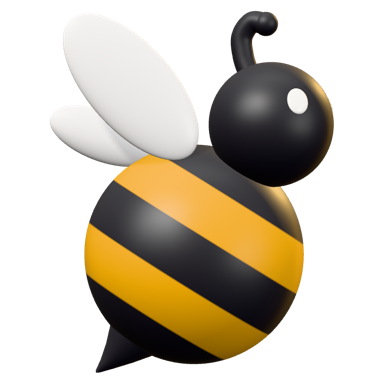
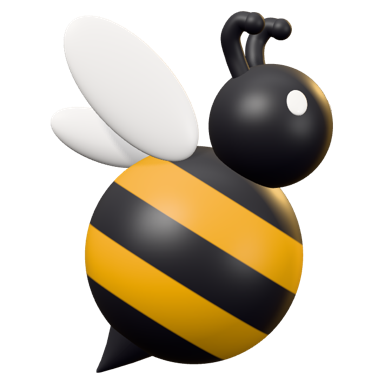
Give the bee two antennae
The 3D bee had a single antenna on the centre of its head, so it looked
wrong whenever it turned to face the viewer. It now has two curled
antennae, splayed slightly and wobbling out of step. The logo, favicon
and app icons are re-rendered from the new model.

diff --git a/src/components/brand/beeScene.ts b/src/components/brand/beeScene.ts
@@ -5,11 +5,11 @@ import { BUZZ_EVENT } from '@/contexts/BuzzContext';
 /**
  * The nostr.buzz bee, rebuilt in three.js from the brand logo's proportions
  * (side view: round striped body, head top-right with one white eye, curled
- * antenna, two wings top-left, chat-bubble stinger bottom-left) and rendered
+ * antennae, two wings top-left, chat-bubble stinger bottom-left) and rendered
  * like a glossy vinyl toy in a soft photo studio.
  *
  * Animations: fluttering wings, hover + sway, blinking eye, head that glances
- * around / follows the pointer, wobbling antenna and an excited "buzz" mode.
+ * around / follows the pointer, wobbling antennae and an excited "buzz" mode.
  */
 
 export interface BeeSceneOptions {
@@ -39,6 +39,8 @@ const LAYOUT = {
   eye: { spread: 42, lift: 0.36, size: new THREE.Vector3(0.1, 0.122, 0.04) },
   /** Resting head turn towards the viewer, so the near eye lands where it is in the logo. */
   headYaw: -0.42,
+  /** Antennae: distance from the head's centre plane at the base and at the curl. */
+  antenna: { base: 0.21, tip: 0.33 },
   stingerDirection: new THREE.Vector2(-0.58, -0.82),
   /** Stripes are slices perpendicular to this axis (tilted 32° towards the head, like the logo). */
   stripeAxis: new THREE.Vector3(0.53, 0.85, 0).normalize(),
@@ -160,7 +162,7 @@ export class BeeScene {
   private readonly hover = new THREE.Group();
   private readonly bee = new THREE.Group();
   private readonly head = new THREE.Group();
-  private readonly antenna = new THREE.Group();
+  private readonly antennae: THREE.Group[] = [];
   /** Near eye (always visible) and far eye (shows when the head turns towards the viewer). */
   private readonly eyes: THREE.Group[] = [];
   private readonly wings: Wing[] = [];
@@ -333,23 +335,29 @@ export class BeeScene {
       this.eyes.push(eye);
     }
 
-    // Antenna: one thick stalk leaning back from the top of the head, with a round tip.
-    const base = new THREE.Vector3(-0.18, 0.46, 0.05);
-    this.antenna.position.copy(base);
-    const curve = new THREE.CatmullRomCurve3(
-      [
-        new THREE.Vector3(-0.18, 0.42, 0.05),
-        new THREE.Vector3(-0.25, 0.62, 0.05),
-        new THREE.Vector3(-0.26, 0.8, 0.05),
-        new THREE.Vector3(-0.16, 0.92, 0.05),
-        new THREE.Vector3(-0.03, 0.9, 0.05),
-      ].map((point) => point.sub(base)),
-    );
-    const stalk = solid(new THREE.Mesh(new THREE.TubeGeometry(curve, 96, 0.096, 28), black));
-    const tip = solid(new THREE.Mesh(new THREE.SphereGeometry(0.108, 32, 24), black));
-    tip.position.copy(curve.getPoint(1));
-    this.antenna.add(stalk, tip);
-    this.head.add(this.antenna);
+    // Antennae: two thick curled stalks on top of the head, one either side of the centre
+    // line and splayed a little outwards. In the logo pose the far one hides behind the near one.
+    for (const side of [1, -1]) {
+      const z = (spread: number) => side * spread;
+      const base = new THREE.Vector3(-0.18, 0.46, z(LAYOUT.antenna.base));
+      const curve = new THREE.CatmullRomCurve3(
+        [
+          new THREE.Vector3(-0.18, 0.42, z(LAYOUT.antenna.base)),
+          new THREE.Vector3(-0.25, 0.62, z(LAYOUT.antenna.base + 0.03)),
+          new THREE.Vector3(-0.26, 0.8, z(LAYOUT.antenna.tip - 0.02)),
+          new THREE.Vector3(-0.16, 0.92, z(LAYOUT.antenna.tip)),
+          new THREE.Vector3(-0.03, 0.9, z(LAYOUT.antenna.tip)),
+        ].map((point) => point.sub(base)),
+      );
+      const antenna = new THREE.Group();
+      antenna.position.copy(base);
+      const stalk = solid(new THREE.Mesh(new THREE.TubeGeometry(curve, 96, 0.088, 28), black));
+      const tip = solid(new THREE.Mesh(new THREE.SphereGeometry(0.1, 32, 24), black));
+      tip.position.copy(curve.getPoint(1));
+      antenna.add(stalk, tip);
+      this.head.add(antenna);
+      this.antennae.push(antenna);
+    }
 
     // Two wings behind the head: a large one pointing up-left and a smaller one pointing left.
     const wingMaterial = new THREE.MeshPhysicalMaterial({
@@ -487,8 +495,10 @@ export class BeeScene {
         wing.twist.rotation.y = beat * 0.55;
       }
 
-      // Antenna wobble lags behind the hover.
-      this.antenna.rotation.z = Math.sin(t * 2.4 - 0.8) * 0.09 + excitement * Math.sin(t * 42) * 0.12;
+      // Antennae wobble behind the hover, each a little out of step with the other.
+      this.antennae.forEach((antenna, i) => {
+        antenna.rotation.z = Math.sin(t * 2.4 - 0.8 - i * 0.6) * 0.09 + excitement * Math.sin(t * 42 + i * 1.3) * 0.12;
+      });
 
       // Look at the pointer while it moves, otherwise glance around now and then —
       // including turning to face the viewer, which shows both eyes.
